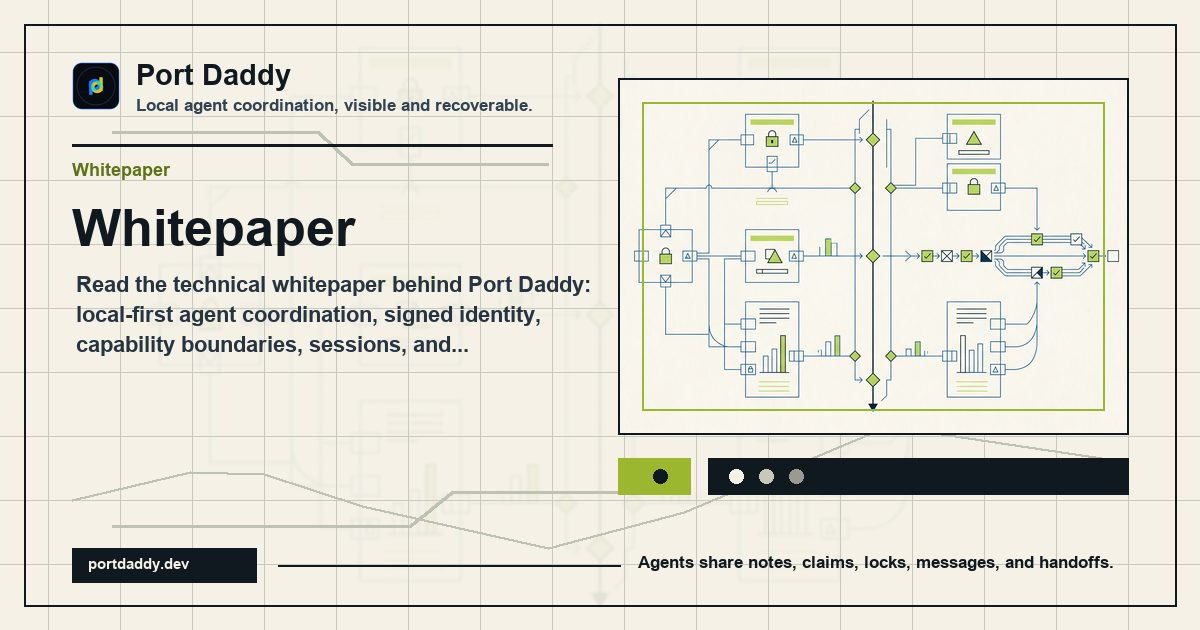
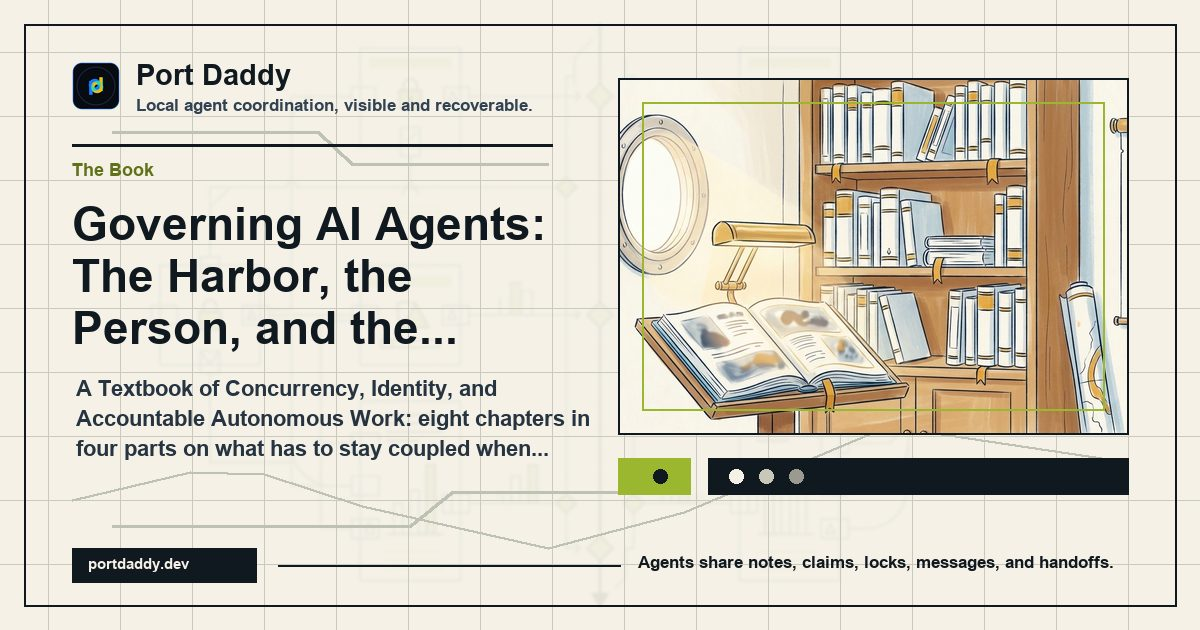
site(library): count the related paper apart from the Book's, and scope the Book label to the Book's card
Two findings from Codex's second review of #10335.

The banner said all eight papers carry the Book's results; the research
deck classifies paper 8 as related to a chapter, not folded into it. The
relation is now a field on the paper record (`relation: 'folded' |
'related'`, default folded) with `RESEARCH_PAPERS_FOLDED` and
`RESEARCH_PAPERS_RELATED` exported; the research deck reads it instead of
testing the paper number, and the banner says "7 papers carry the Book's
results in a form written to be checked, and 1 more is related work".

Renaming the shared `whitepaper` section label would have relabelled
/research, /security, /manifesto and the chapter readers "The Book" the
next time the cards were generated. The shared label is 'Whitepaper'
again; the /whitepaper route sets `ogSectionLabel: 'The Book'`, and its
card and manifest entry are regenerated (`npm run generate:og`, keeping
only the Book's card: the other 61 cards the generator would also have
rewritten are stale on main for reasons outside this PR).

diff --git a/website-v2/src/components/landing/LibraryBanner.tsx b/website-v2/src/components/landing/LibraryBanner.tsx
@@ -1,7 +1,11 @@
 import { Link } from 'react-router-dom'
 import { ArrowRight } from 'lucide-react'
 import { PageContainer } from '@/components/site/primitives'
-import { RESEARCH_PAPERS, RESEARCH_PAPER_TOTAL_PAGES } from '@/data/researchPapers'
+import {
+  RESEARCH_PAPERS_FOLDED,
+  RESEARCH_PAPERS_RELATED,
+  RESEARCH_PAPER_TOTAL_PAGES,
+} from '@/data/researchPapers'
 import { COLLECTED_VOLUME, TEXTBOOK } from '@/data/whitePapers'
 
 /**
@@ -33,7 +37,8 @@ import { COLLECTED_VOLUME, TEXTBOOK } from '@/data/whitePapers'
 export function LibraryBanner() {
   const chapters = TEXTBOOK.chapters.length
   const parts = TEXTBOOK.parts.length
-  const papers = RESEARCH_PAPERS.length
+  const folded = RESEARCH_PAPERS_FOLDED.length
+  const related = RESEARCH_PAPERS_RELATED.length
 
   return (
     <div className="border-b-2 border-[var(--border-strong)] bg-[var(--surface-raised)]">
@@ -109,9 +114,11 @@ export function LibraryBanner() {
               The papers behind it
             </div>
             <p className="mt-[var(--space-2)] max-w-[44ch] text-[16px] leading-[1.5] text-[var(--text-secondary)]">
-              The Book's results as {papers} papers, {RESEARCH_PAPER_TOTAL_PAGES} pages, written to be
-              checked: each states its assumptions, names the tool that checks it, and says where it
-              stops. Start here if you want the proofs without the teaching.
+              {folded} papers carry the Book's results in a form written to be checked
+              {related > 0 ? `, and ${related} more ${related === 1 ? 'is' : 'are'} related work` : ''}:{' '}
+              {RESEARCH_PAPER_TOTAL_PAGES} pages in all, each stating its assumptions, naming the tool
+              that checks it, and saying where it stops. Start here if you want the proofs without the
+              teaching.
             </p>
             <Link
               to="/research"

diff --git a/website-v2/src/data/researchPapers.ts b/website-v2/src/data/researchPapers.ts
@@ -63,6 +63,14 @@ export interface ResearchPaper {
   /** The library chapter (Roman numeral) this paper's proof is closest to. */
   /** Id of the Book chapter this paper's results are folded into (a WHITE_PAPERS id, never a number). */
   chapterRef: string
+  /**
+   * How the paper stands to the Book. 'folded' (the default): its results are
+   * taught in the chapter `chapterRef` names. 'related': it extends that
+   * chapter's subject but the Book does not carry its results — the research
+   * deck labels it "Related to" rather than "Folded into", and the home
+   * banner must not count it among the Book's results.
+   */
+  relation?: 'folded' | 'related'
   /** One line on why that chapter needed this proof. */
   chapterWhy: string
   /**
@@ -239,6 +247,7 @@ export const RESEARCH_PAPERS: ResearchPaper[] = [
   {
     id: 'active-sheaf-cohomology-for-swarms',
     number: '8',
+    relation: 'related',
     title: 'The Cohomology of Agent Evidence',
     subtitle: 'Typed Cellular Sheaves, Relative Extension, and Fault Observability',
     pdfPath: '/research/paper8.pdf',
@@ -263,6 +272,10 @@ export const RESEARCH_PAPERS: ResearchPaper[] = [
 ]
 
 export const RESEARCH_PAPER_TOTAL_PAGES = RESEARCH_PAPERS.reduce((sum, paper) => sum + paper.pages, 0)
+export const isFoldedIntoBook = (paper: ResearchPaper) => (paper.relation ?? 'folded') === 'folded'
+/** Papers whose results the Book teaches, and papers that only relate to a chapter. */
+export const RESEARCH_PAPERS_FOLDED = RESEARCH_PAPERS.filter(isFoldedIntoBook)
+export const RESEARCH_PAPERS_RELATED = RESEARCH_PAPERS.filter((paper) => !isFoldedIntoBook(paper))
 
 /**
  * The result ledger (which paper carries which executed result, and where it

diff --git a/website-v2/src/pages/research/index.tsx b/website-v2/src/pages/research/index.tsx
@@ -1,7 +1,7 @@
 import * as React from 'react'
 import { useSearchParams } from 'react-router-dom'
 import { DeckShell, type DeckSignal } from '@/components/library/DeckShell'
-import { RESEARCH_PAPERS, RESEARCH_PAPER_TOTAL_PAGES, type ResearchPaper } from '@/data/researchPapers'
+import { RESEARCH_PAPERS, RESEARCH_PAPER_TOTAL_PAGES, type ResearchPaper, isFoldedIntoBook } from '@/data/researchPapers'
 import { WHITE_PAPERS } from '@/data/whitePapers'
 
 /**
@@ -55,7 +55,7 @@ function PaperRow({ paper }: { paper: ResearchPaper }) {
       </p>
       <div className="mt-2 flex flex-wrap items-center gap-x-4 gap-y-1.5">
         <span className="font-mono text-[14px] font-bold uppercase tracking-[0.1em] text-[var(--text-muted)]">
-          {paper.number === '8' ? 'Related to' : 'Folded into'} {chapterTitleFor(paper.chapterRef)}
+          {isFoldedIntoBook(paper) ? 'Folded into' : 'Related to'} {chapterTitleFor(paper.chapterRef)}
         </span>
         <span className="font-mono text-[14px] text-[var(--text-ghost)]">
           {paper.resultTags.join(' · ')}

diff --git a/website-v2/src/data/siteMetadata.ts b/website-v2/src/data/siteMetadata.ts
@@ -139,7 +139,7 @@ const sectionLabels: Record<SiteMetadataSection, string> = {
   integrations: 'Integration',
   templates: 'Agent Templates',
   blog: 'Field Note',
-  whitepaper: 'The Book',
+  whitepaper: 'Whitepaper',
   legacy: 'Archive',
 }
 
@@ -360,7 +360,10 @@ const productRoutes: SiteMetadata[] = [
     '/whitepaper',
     'Governing AI Agents: The Harbor, the Person, and the Economy',
     'A Textbook of Concurrency, Identity, and Accountable Autonomous Work: eight chapters in four parts on what has to stay coupled when software works while you are not watching, with every claim labelled by kind, worked examples, exercises, and proofs that run in CI. A free PDF.',
-    { section: 'whitepaper' },
+    // The share card names the Book as the header does; the section's shared
+    // label stays 'Whitepaper' for /research, /security, /manifesto and the
+    // chapter readers, which are not the Book.
+    { section: 'whitepaper', ogSectionLabel: 'The Book' },
   ),
   metadata(
     '/research',
